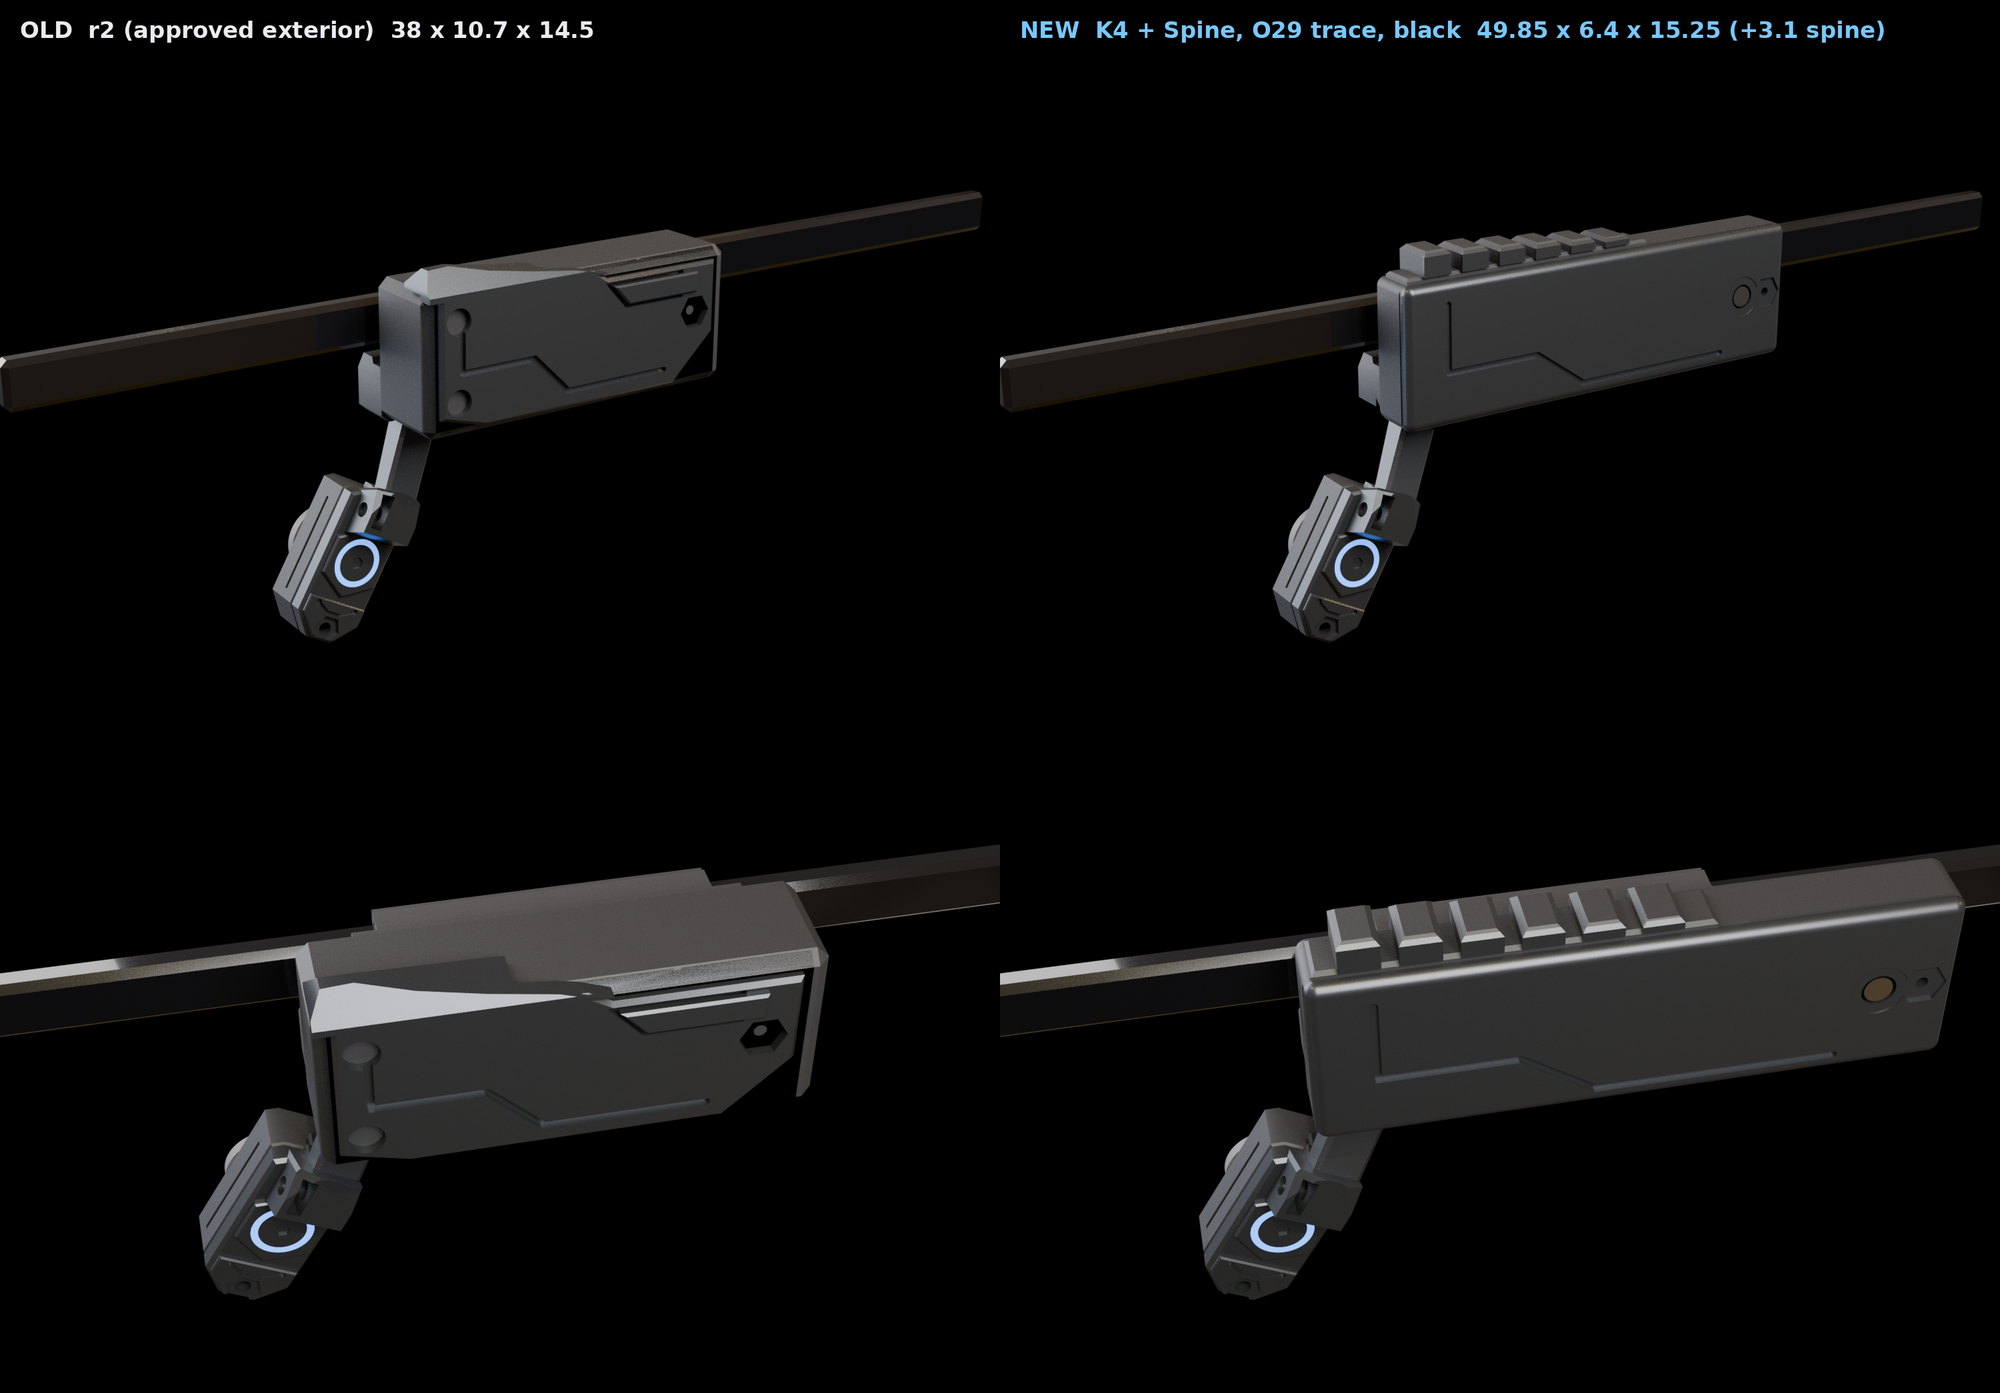
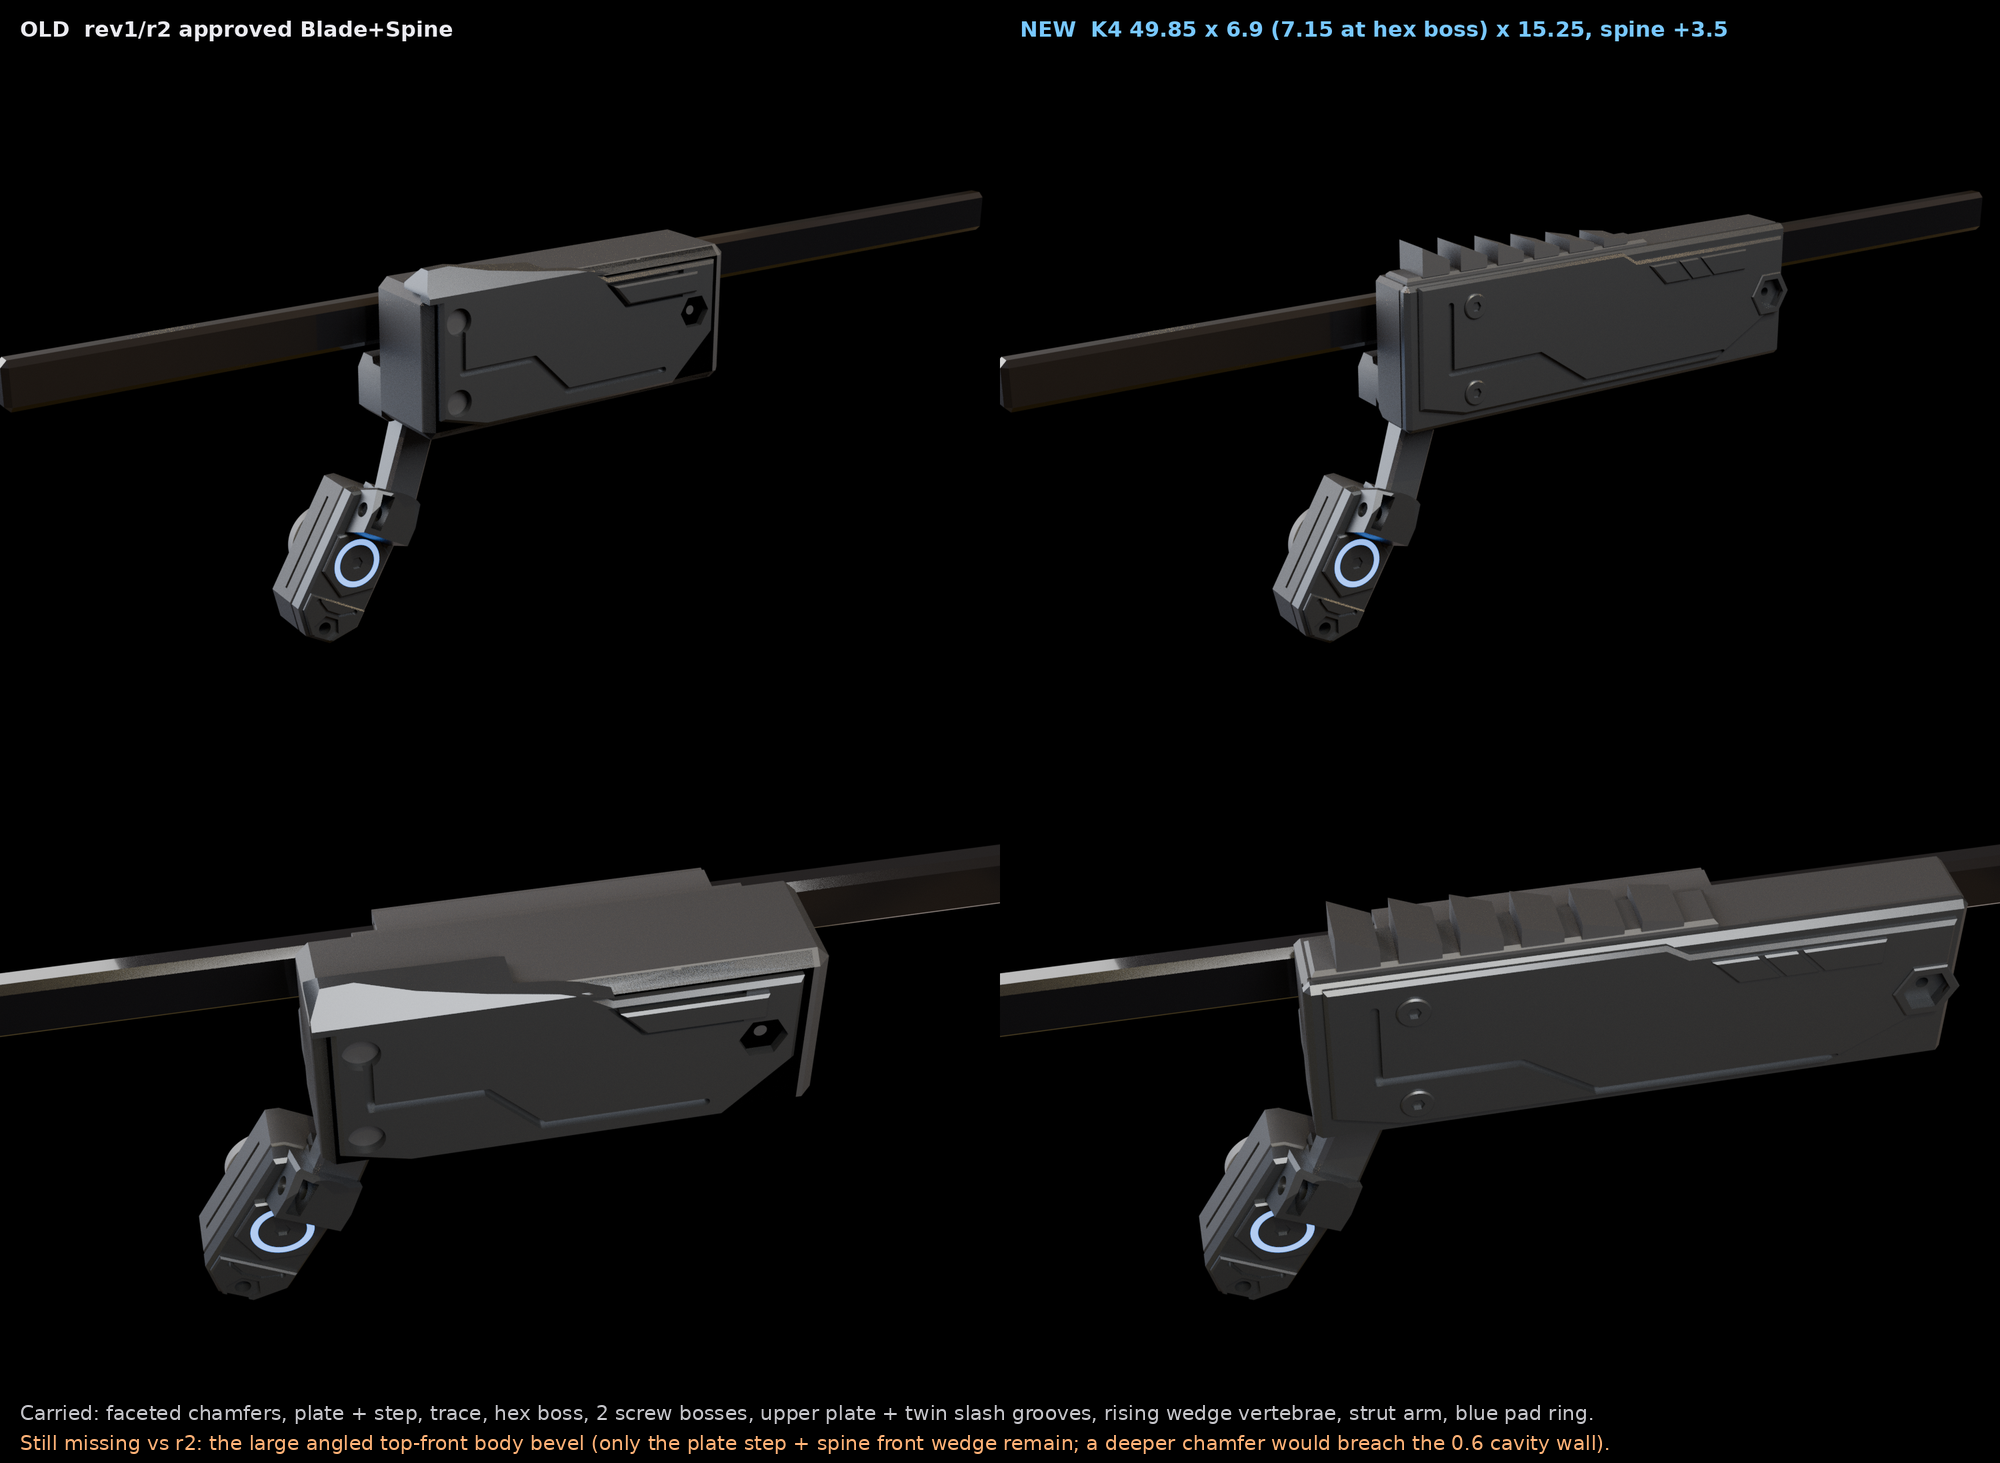
K4 exterior v2: armour plate (chamfers, step, twin slash, hex boss, screw bosses), raked rising vertebrae
Claude-Session: https://claude.ai/code/session_01Wg997D6KFs8bxoAH56jZZJ

diff --git a/hw/mech/shell_k4.py b/hw/mech/shell_k4.py
@@ -44,8 +44,11 @@ def ycyl(x, z, d, y0, y1):
     return Pos(x, (y0 + y1) / 2, z) * Rot(90, 0, 0) * Cylinder(d / 2, y1 - y0)
 
 
+BODY_CH = 0.5    # crisp facets like r2/blade (chamfer 1.0 would leave 0.35 wall at the 0.6 cavity corners; 0.5 leaves ~0.7)
+
+
 def outer_body():
-    return fillet(box(X0, X1, Y_IN, Y_OUT, Z0, Z1).edges(), 1.0)
+    return chamfer(box(X0, X1, Y_IN, Y_OUT, Z0, Z1).edges(), BODY_CH)
 
 
 def cavity():
@@ -130,7 +133,8 @@ def post():
 SPINE_SX = (L * 0.60) / 22.8                # 1.31
 SPINE_X1 = 66.8
 SPINE_DY = -4.9                    # r1 y 10.2..14.9 -> 5.3..10.0 (4.7 wide on the 6.4 mm T, clear of the inner rail)
-SPINE_H = 0.6 + 0.9 + 0.32 * 5     # 3.1 above Z1
+SPINE_STEP = 0.4
+SPINE_H = 0.6 + 0.9 + SPINE_STEP * 5     # 3.5 above Z1
 
 
 def _sx(x):
@@ -138,20 +142,23 @@ def _sx(x):
 
 
 def spine():
+    """Vertebrae stepping UP toward the rear (x+): each is a raked wedge (low front, high rear), chamfered, on a chamfered rail; heights 0.9 + 0.4 i."""
     zb = Z1 - 0.15
-    s = box(_sx(44.0), SPINE_X1, 10.5 + SPINE_DY, 14.6 + SPINE_DY, zb, Z1 + 0.6)
+    s = box(_sx(44.0), SPINE_X1, 5.6, 9.7, zb, Z1 + 0.6)
     s = chamfer(s.edges().group_by(Axis.Z)[-1], 0.3)
     for i, x in enumerate((46.0, 49.4, 52.8, 56.2, 59.6, 63.0)):
-        h = 0.9 + 0.32 * i
-        seg = box(_sx(x), _sx(x) + 2.4 * SPINE_SX, 10.2 + SPINE_DY, 14.9 + SPINE_DY, Z1 + 0.5, Z1 + 0.6 + h)
-        seg = chamfer(seg.edges().group_by(Axis.Z)[-1], min(0.5, h * 0.45))
+        h = 0.9 + SPINE_STEP * i
+        x0, x1 = _sx(x), _sx(x) + 2.4 * SPINE_SX
+        z0 = Z1 + 0.5
+        seg = blade.prism_xz([(x0, z0), (x1, z0), (x1, Z1 + 0.6 + h), (x0, Z1 + 0.6 + 0.45 * h)], 5.3, 9.7)
+        seg = chamfer(seg.edges().filter_by(Axis.X, reverse=True).group_by(Axis.Z)[-1], min(0.35, h * 0.3)) if False else seg
         s = s + seg
     return s
 
 
 def _zt(z):
     """r1 trace z (-11 .. 2.6) -> K4 lid face z, kept 1.6 above the bottom and 2.4 below the top edge."""
-    return (Z0 + 1.6) + (z + 11.0) * ((Z1 - 2.4) - (Z0 + 1.6)) / 13.6
+    return (Z0 + 1.8) + (z + 11.0) * ((Z1 - 2.4) - (Z0 + 1.8)) / 13.6
 
 
 def _xt(x):
@@ -159,7 +166,41 @@ def _xt(x):
 
 
 TRACE = [(_xt(x), _zt(z)) for x, z in [(36.5, -11.0), (51.0, -11.0), (55.5, -6.0), (63.8, -6.0), (63.8, 2.6)]]
-TRACE_W, TRACE_DEPTH = 0.7, 0.35       # lid 1.0 -> 0.65 left (>= 0.6 min resin wall)
+TRACE_W, TRACE_DEPTH = 0.7, 0.45       # groove in the armour plate (floor 0.05 above the lid face: lid untouched)
+
+# armour plate (blade.armour_and_trace pts, x scaled to K4): chamfered plate on the lid face, stepped front wedge, upper plate with twin slash grooves,
+# raised hex boss round the mic window, two screw-head bosses (decorative: K4 is bonded, nothing screwed). PLATE_T adds to T (see checks.look).
+PLATE_T, PLATE_CH, BOSS_T = 0.5, 0.3, 0.25
+
+
+def _xm(x):
+    return X0 + (x - 29.5) * (X1 - X0) / (67.5 - 29.5)
+
+
+PLATE_PTS = [(X0 + 1.0, Z1 - 1.25), (_xm(46.0), Z1 - 1.25), (_xm(46.0) + 1.8, Z1 - 0.1), (66.2, Z1 - 0.1), (66.2, -7.2), (61.0, -8.6), (_xm(37.0), -8.6), (X0 + 1.0, -3.6)]
+UPPER_PTS = [(_xm(34.5), Z1 - 1.9), (_xm(44.0) + 1.0, Z1 - 1.9), (_xm(44.0) - 1.2, Z1 - 4.2), (_xm(34.5), Z1 - 4.2)]
+SCREWS = [(59.8, 2.7), (59.8, -6.4)]
+Y_PL = Y_OUT + PLATE_T
+
+
+def exterior_plate():
+    from styles import plate as _plate
+    p = _plate(PLATE_PTS, Y_OUT - 0.05, PLATE_T + 0.05, PLATE_CH)
+    up = _plate(UPPER_PTS, Y_PL - 0.05, 0.35, 0.15)
+    for k in (0, 1):                       # twin slash grooves across the upper plate
+        xa = (UPPER_PTS[0][0] + UPPER_PTS[1][0]) / 2 - 2.2 + 3.0 * k
+        up = up - slot([(xa, Z1 - 4.4), (xa + 2.4, Z1 - 1.7)], Y_PL + 0.35, 0.4, 0.25)
+    p = p + up
+    hexb = Pos(MIC[0], Y_PL + BOSS_T / 2 - 0.05, MIC[1]) * Rot(90, 0, 0) * extrude(RegularPolygon(HEX_R + 0.8, 6), amount=(BOSS_T + 0.1) / 2, both=True)
+    p = p + chamfer(hexb.edges().group_by(Axis.Y)[-1], 0.12)
+    for sx, sz in SCREWS:
+        hd = ycyl(sx, sz, 2.6, Y_PL - 0.05, Y_PL + BOSS_T)
+        hd = chamfer(hd.edges().group_by(Axis.Y)[-1], 0.12) - Pos(sx, Y_PL + BOSS_T, sz) * Rot(90, 0, 0) * extrude(RegularPolygon(0.55, 6), amount=0.3, both=True)
+        p = p + hd
+    p = p - slot(TRACE, Y_PL, TRACE_W, TRACE_DEPTH)
+    p = p - Pos(MIC[0], Y_OUT, MIC[1]) * Rot(90, 0, 0) * extrude(RegularPolygon(HEX_R, 6), amount=2.0, both=True)
+    return p
+
 
 
 def tub(with_post=True):
@@ -245,8 +286,7 @@ def ledge_check():
 def lid():
     l = outer_body() & box(X0 - 1, X1 + 1, Y_SPLIT, Y_OUT + 1, Z0 - 1, Z1 + 1)
     l = l - tongue(GROOVE_CL)
-    l = l + (spine() & box(X0 - 1, X1 + 1, Y_SPLIT, Y_OUT + 1, Z0 - 1, Z1 + 9))
-    l = l - slot(TRACE, Y_OUT, TRACE_W, TRACE_DEPTH)
+    l = l + exterior_plate()
     l = l + (ledge_ring(Y_LID_IN - LID_STANDOFF, Y_LID_IN + 0.01) & outer_body())
     l = l - ycyl(MIC[0], MIC[1], DUCT_D, Y_LID_IN - 0.01, Y_OUT + 0.01)
     l = l - Pos(MIC[0], Y_OUT - HEX_DEPTH / 2, MIC[1]) * Rot(90, 0, 0) * extrude(RegularPolygon(HEX_R, 6), amount=HEX_DEPTH / 2, both=True)
@@ -320,7 +360,7 @@ def main():
     c["clash/cell/stack"] = round((ph["cell"] & ph["stack_body"]).volume, 4)
     sp = spine()
     c["look"] = dict(spine_segments=6, spine_sx=round(SPINE_SX, 3), spine_h_above_Z1=round(SPINE_H, 2), spine_x=[round(_sx(44.0), 1), SPINE_X1], spine_in_tub_lid=[round((sp & t).volume, 2), round((sp & l).volume, 2)],
-                     spine_vs_cell=round((sp & ph["cell"]).volume, 4), trace_pts=[(round(a, 1), round(b, 1)) for a, b in TRACE], trace_depth=TRACE_DEPTH, lid_residual=round(LID_T - TRACE_DEPTH, 2),
+                     spine_vs_cell=round((sp & ph["cell"]).volume, 4), trace_pts=[(round(a, 1), round(b, 1)) for a, b in TRACE], trace_depth=TRACE_DEPTH, plate=dict(t=PLATE_T, chamfer=PLATE_CH, pts=[(round(a,1),round(b,1)) for a,b in PLATE_PTS], upper_plate_twin_slash=2, hex_boss=True, screw_bosses=len(SCREWS)),
                      colour="black, one print, no UV/glow parts", note="parity with O17 spine, O29 trace, v0.14 Night City (INC-2026-10-11-K4-EXTERIOR)")
     c["clash/puck/lid"] = round((pk & l).volume, 4)
     c["clash/puck/sw1"] = round((pk & ph["sw1"]).volume, 4)
@@ -356,7 +396,7 @@ def main():
               pad_recess=round(TAB_Z_BOTTOM - Z0, 2), cell_shift=DOCK_SHIFT, mode=DOCK, tab_strip_to_cell_z=round(CELL_Z0 - TAB_STRIP_TOP, 2), tab_under_cell_x=round(max(0.0, TAB_X[1] - CELL_X0), 2))
     c["dock"] = dk
     ev = outer_body().volume
-    c["envelope"] = dict(T=round(Y_OUT - Y_IN, 2), L=round(L, 2), H=round(H, 2), env_mm3=round(ev, 1), x=[round(X0, 2), X1], z=[Z0, round(Z1, 2)])
+    c["envelope"] = dict(T=round(Y_OUT - Y_IN, 2), T_with_plate=round(Y_PL - Y_IN, 2), T_at_hex_boss=round(Y_PL + BOSS_T - Y_IN, 2), L=round(L, 2), H=round(H, 2), env_mm3=round(ev, 1), x=[round(X0, 2), X1], z=[Z0, round(Z1, 2)])
     c["volumes"] = dict(tub=round(t.volume, 1), lid=round(l.volume, 1), puck=round(pk.volume, 3))
     c["printable"] = {n: dict(solids=len(s.solids()), valid=bool(s.is_valid)) for n, s in (("tub", t), ("lid", l), ("puck", pk))}
     c["mass"] = mass(t, l, pk, ph)

diff --git a/docs/system/reg-pod-body.md b/docs/system/reg-pod-body.md
@@ -9,7 +9,7 @@ Status: Phase-2 shell CAD `hw/mech/shell_r2.py` (constants `hw/mech/dims_r2.py`)
 - Mechanical half of: **F1** sealed mic duct in the lid; **F11** SW1 pocket, puck and skin; **F5/F9/F10/F15** dock window in the belly; **F3/F12** stowage zone + heel + wire channel (`integration-map.md` §1).
 - Mounts to the glasses through a removable frame adapter (spec §8; adapter work deferred, O26).
 - Two-stage build (O10): taped test build, bonded final build that can be cut open. Sealing IPX4 min, IPX5 preferred (O12b).
-- Exterior: "Spine" top (O17), carried over from r1 onto the Phase-2 top. **K4 (2026-10-11, INC-2026-10-11-K4-EXTERIOR):** restored in `shell_k4.py` (`spine()`: 6 segments, x-run scaled x1.31 to the same 60 % of the 49.85 mm pod, heights unchanged, +3.1 mm above Z1 at the rear; `TRACE`: O29 groove 0.7 x 0.35 on the 1.0 lid, 0.65 left); black, one print, no UV/glow; check `checks.json look`; item EXT-NIGHTCITY. Render: `docs/diagrams/k4-review/exterior-old-vs-new.png`.
+- Exterior: "Spine" top (O17), carried over from r1 onto the Phase-2 top. **K4 (2026-10-11, INC-2026-10-11-K4-EXTERIOR):** restored in `shell_k4.py`: crisp 0.5 chamfer body; `exterior_plate()` (0.5 plate with 0.3 chamfer + front step, upper plate with twin slash grooves, hex boss round the mic window, 2 decorative screw bosses, trace groove 0.7 x 0.45 in the plate); `spine()` = 6 raked wedge vertebrae, x-run x1.31, heights 0.9+0.4i, +3.5 above Z1. T 6.9 (7.15 at the hex boss; was 6.4). Black, one print, no UV/glow; check `checks.json look`; item EXT-NIGHTCITY. Missing vs r2: large top-front body bevel. Render: `docs/diagrams/k4-review/exterior-old-vs-new.png`.
 
 ## Big picture
 Renders (build outputs, gitignored; `shell_r2.py` writes them): `hw/mech/out/r2/section.png` (y-z section through mic and SW1), `hw/mech/out/r2/plan.png` (x-z plan through the lid: board, mic, SW1 pocket, dock, stowage, seam keys). No 3D render dump of r2 yet (issue 9).
